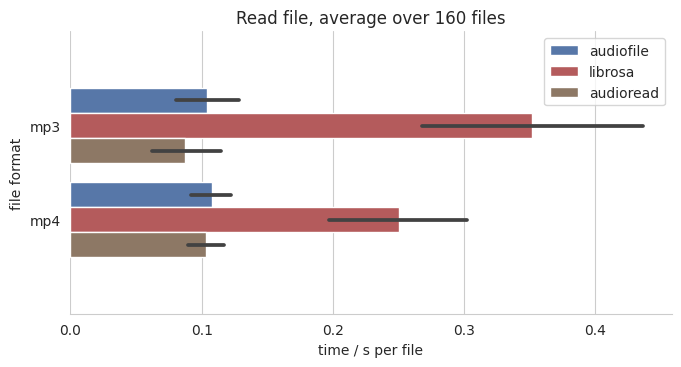
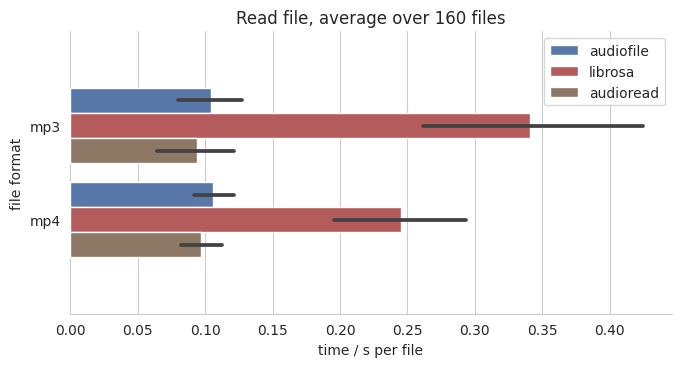
Update benchmarks

diff --git a/docs/benchmark/plot.py b/docs/benchmark/plot.py
@@ -54,9 +54,9 @@ for package in ['read', 'info']:
             height = 3.36
             aspect = 2.0
         elif 'mp3' in exts and package == 'info':
-            lib_order = ['audiofile', 'audioread']
-            height = 2.24
-            aspect = 3.0
+            lib_order = ['audiofile', 'audiofile_sloppy', 'audioread']
+            height = 3.36
+            aspect = 2.0
 
         fig = plt.figure()
 
@@ -64,6 +64,7 @@ for package in ['read', 'info']:
         #
         palette = {
             'audiofile': '#4a74b5',
+            'audiofile_sloppy': '#6b93d7',
             'soundfile': '#db8548',
             'aubio': '#5dab64',
             'librosa': '#c34c4d',

diff --git a/docs/benchmark/loaders.py b/docs/benchmark/loaders.py
@@ -152,3 +152,12 @@ def info_audiofile(fp):
     info['channels'] = af.channels
     info['sampling_rate'] = af.sampling_rate
     return info
+
+
+def info_audiofile_sloppy(fp):
+    info = {}
+    info['duration'] = af.duration(fp, sloppy=True)
+    info['samples'] = af.samples(fp)
+    info['channels'] = af.channels
+    info['sampling_rate'] = af.sampling_rate
+    return info

diff --git a/docs/benchmark/benchmark_info.py b/docs/benchmark/benchmark_info.py
@@ -53,7 +53,6 @@ if __name__ == "__main__":
 
     store = utils.DF_writer(columns)
 
-    # audio formats to be bench
     # libraries to be benchmarked
     libs = [
         'aubio',
@@ -62,6 +61,7 @@ if __name__ == "__main__":
         'audioread',
         # 'librosa',  # no direct support
         'audiofile',
+        'audiofile_sloppy',
     ]
 
     for lib in libs:

diff --git a/docs/benchmark.rst b/docs/benchmark.rst
@@ -32,7 +32,7 @@ The following Python packages are benchmarked against each other:
 
 * aubio_ 0.4.9
 * audioread_ 2.1.9
-* :mod:`audiofile` 0.3.1
+* :mod:`audiofile` 1.0.0
 * librosa_ 0.8.0
 * scipy_ 1.5.3
 * soundfile_ 0.10.3.post1
@@ -140,6 +140,11 @@ The main focus was not speed,
 but consistent results for number of samples and duration.
 This can only be achieved by first converting the file to WAV
 as the duration will depend on the used decoder.
+You can speed up the processing by setting ``sloppy=True``
+as argument to :func:`audiofile.duration`.
+This tries to read the duration from the header of the file
+and is shown as audiofile_sloppy
+in the figure.
 
 
 .. _aubio: https://github.com/aubio/aubio/
